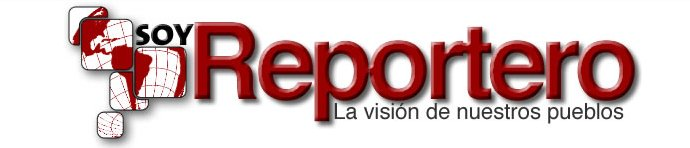
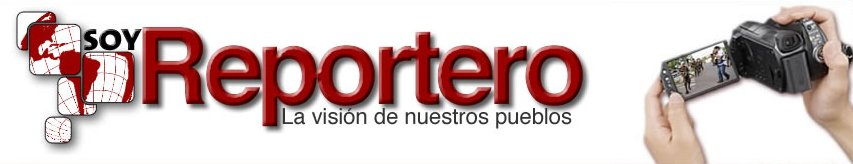
agregando mas estilo

diff --git a/src/telesur/reportero/static/styles.css b/src/telesur/reportero/static/styles.css
@@ -1,5 +1,10 @@
 .ireport-banner {
-    margin-left: 50px;
+    
+    width: 852px;
+}
+
+.ireport-banner img {
+    margin-left: 49px;
 }
 
 .anonreport-pic {
@@ -45,21 +50,27 @@ REPORT VIEW (PUBLIC)
 */
 
 .report-item {
-    width: 140px;
     float: left;
+    text-align: center;
+    width: 155px;
 }
 
 .report-item-thumb {
 }
 
 #report-items-carousel {
-    width: 100%;
-    border-top: 1px solid red;
-    border-bottom: 1px solid red;
     position:relative;
+    min-height: 65px;
+    border: 1px solid #5C2F39;
+    border-radius: 10px 10px 10px 10px;
+    box-shadow: 5px 4px 7px -2px;
+    margin-bottom: 10px;
+    padding: 10px 0 10px 10px;
+}
+
+#report-items-carousel .padding {
     padding-top: 10px;
     padding-bottom: 10px;
-    min-height: 65px;
 }
 
 #report-reports,
@@ -69,7 +80,7 @@ REPORT VIEW (PUBLIC)
 }
 
 #report-reports {
-    width: 847px;
+    width: 810px;
     position: relative;
     left: 10px;
 }
@@ -107,16 +118,26 @@ REPORT VIEW (PUBLIC)
 
 .main-report {
     margin-bottom: 10px;
+    padding: 50px 10px 46px 73px;
+    border: 1px solid #5c2f39;
+    border-radius: 10px;
+    box-shadow: 5px 4px 7px -2px;
+    background: url("++resource++telesur.reportero/fondo_foto_part.jpg") no-repeat scroll -2px -4px transparent
 }
 
 #main-report-media {
-    width: 400px;
-    border: 1px solid red;
+    border: 1px solid #370715;
     float: left;
 }
 
+#main-report-media .padding {
+    padding: 10px;
+}
+
+
 #main-report-media img {
     width: 100%;
+    box-shadow: 5px 5px 5px -1px;
 }
 
 #content a#main-report-title:link {
@@ -141,10 +162,11 @@ REPORT VIEW (PUBLIC)
 
 #content #main-report-comments {
     margin-bottom: 25px;
+    float: right;
 }
 
 #main-report-data {
-    margin-left: 415px;
+    margin-left: 430px;
 }
 
 .anon-file-download {
@@ -152,7 +174,7 @@ REPORT VIEW (PUBLIC)
 }
 
 #content .add-report-button a {
-    color: #990000;
+    color: #000000;
     font-family: Arial,Helvetica,sans-serif;
     font-size: 16px;
     font-weight: bold;
@@ -165,7 +187,7 @@ REPORT VIEW (PUBLIC)
 }
 
 #content .add-report-button a:link {
-    border: 1px solid #990000;
+    border: 1px solid #000000;
     border-radius: 10px 10px 10px 10px;
 }
 
@@ -184,4 +206,73 @@ td.report-item-list-title {
 
 .arrows-list {
     height: 53px;
+}
+
+#content-reports {
+    border: 1px solid #5C2F39;
+    border-radius: 10px 10px 10px 10px;
+    margin: auto;
+    padding: 10px;
+    width: 892px;
+}
+
+.new-report {
+    border: 1px solid #CCC;
+    border-radius: 10px 10px 10px 10px;
+    padding: 20px;
+    margin: auto;
+    width: 892px;
+    margin-top: 10px;
+}
+
+.soy-reporter-list-view {
+    border: 1px solid #CCC;
+    border-radius: 10px 10px 10px 10px;
+    padding: 20px;
+    margin: auto;
+    width: 892px;
+}
+
+.new-report-right,
+.new-report-left {
+    width: 50%;
+    float:left;
+}
+
+.new-report-right img {
+    float: left;
+    margin-right: 10px;
+}
+
+.new-report-right p {
+    padding-left: 10px;
+    padding-top: 40px;
+    text-align: left;  
+}
+
+.requisitos {
+    color: #990000;
+    font-family: Arial,Helvetica,sans-serif;
+    font-size: 14px;
+    font-weight: bold;
+    text-align: center;
+}
+
+#ireport-user-data {
+    font-weight: bold;
+    margin-top: 10px;
+}
+
+.user-data {
+    font-weight: bold;
+    text-align: center;
+}
+
+#content .user-data a:link {
+    border-bottom: 0;
+    color: #000000;
+}
+
+#content .nuevo a:link {
+    border-bottom: 0;
 }

diff --git a/src/telesur/reportero/content/anonreport.py b/src/telesur/reportero/content/anonreport.py
@@ -36,7 +36,19 @@ class IAnonReport(form.Schema):
     """
     A report that any site visitor can add.
     """
-        
+
+    form.omitted(IEditForm, 'name')
+    name = schema.TextLine(title=_(u'Name'),
+            description=_(u'help_name',default=u'Enter your name.'),
+            default=u'via',
+            required=True)
+    
+    form.omitted(IEditForm, 'country')
+    country = schema.TextLine(title=_(u'Country'),
+            description=_(u'help_country',default=u'Enter your country.'),
+            default=u'web',
+            required=True)
+    
     status = schema.Bool(
             title=_(u'Status'),
             description=_(u'help_status',

diff --git a/src/telesur/reportero/content/ireport.py b/src/telesur/reportero/content/ireport.py
@@ -15,7 +15,7 @@ class IIReport(form.Schema):
     A section that contains reports
     """
 
-BATCH_SIZE = 6
+BATCH_SIZE = 5
 class View(dexterity.DisplayForm):
     grok.context(IIReport)
     grok.require('zope2.View')
